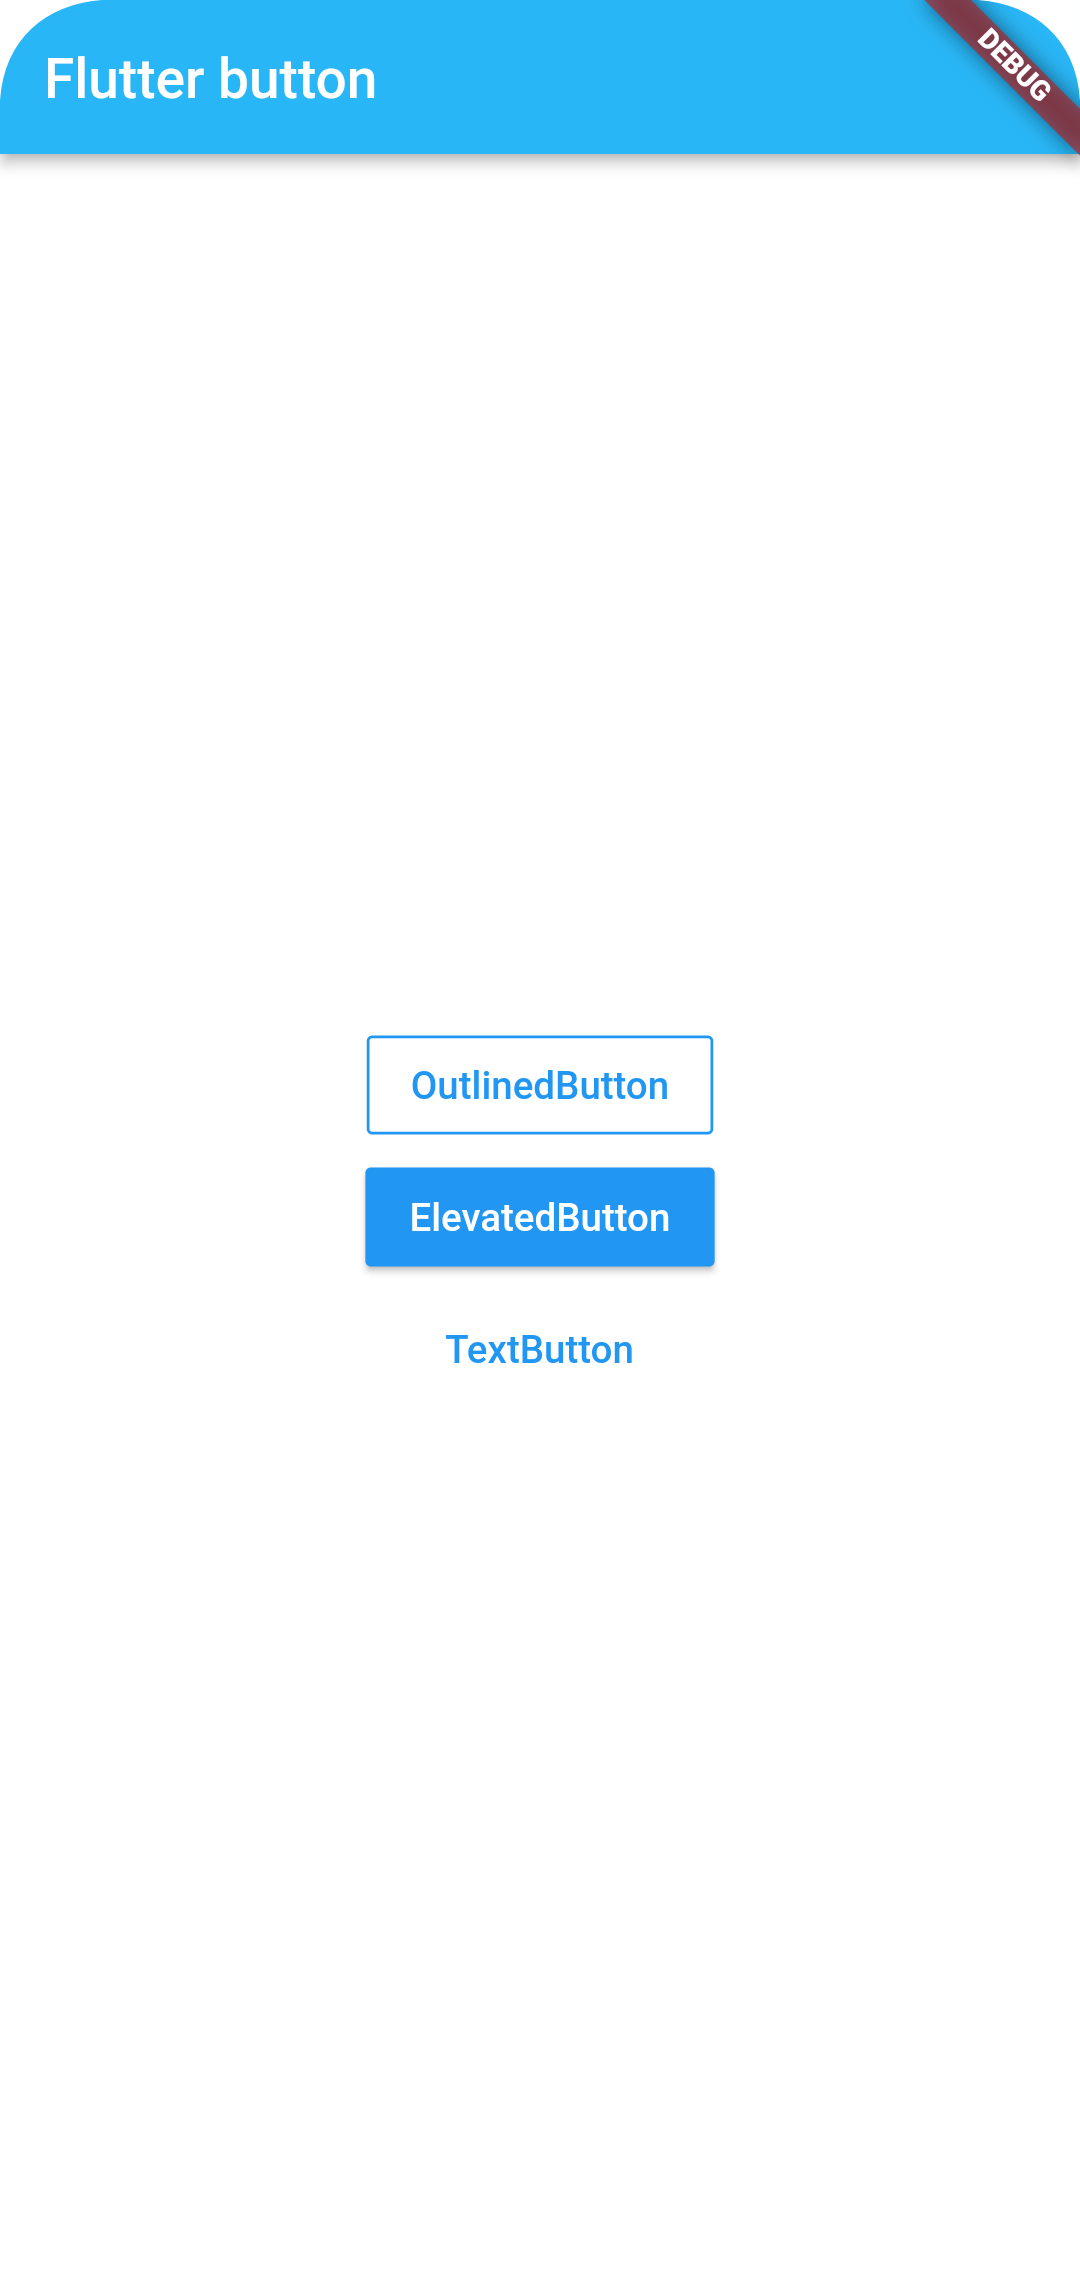
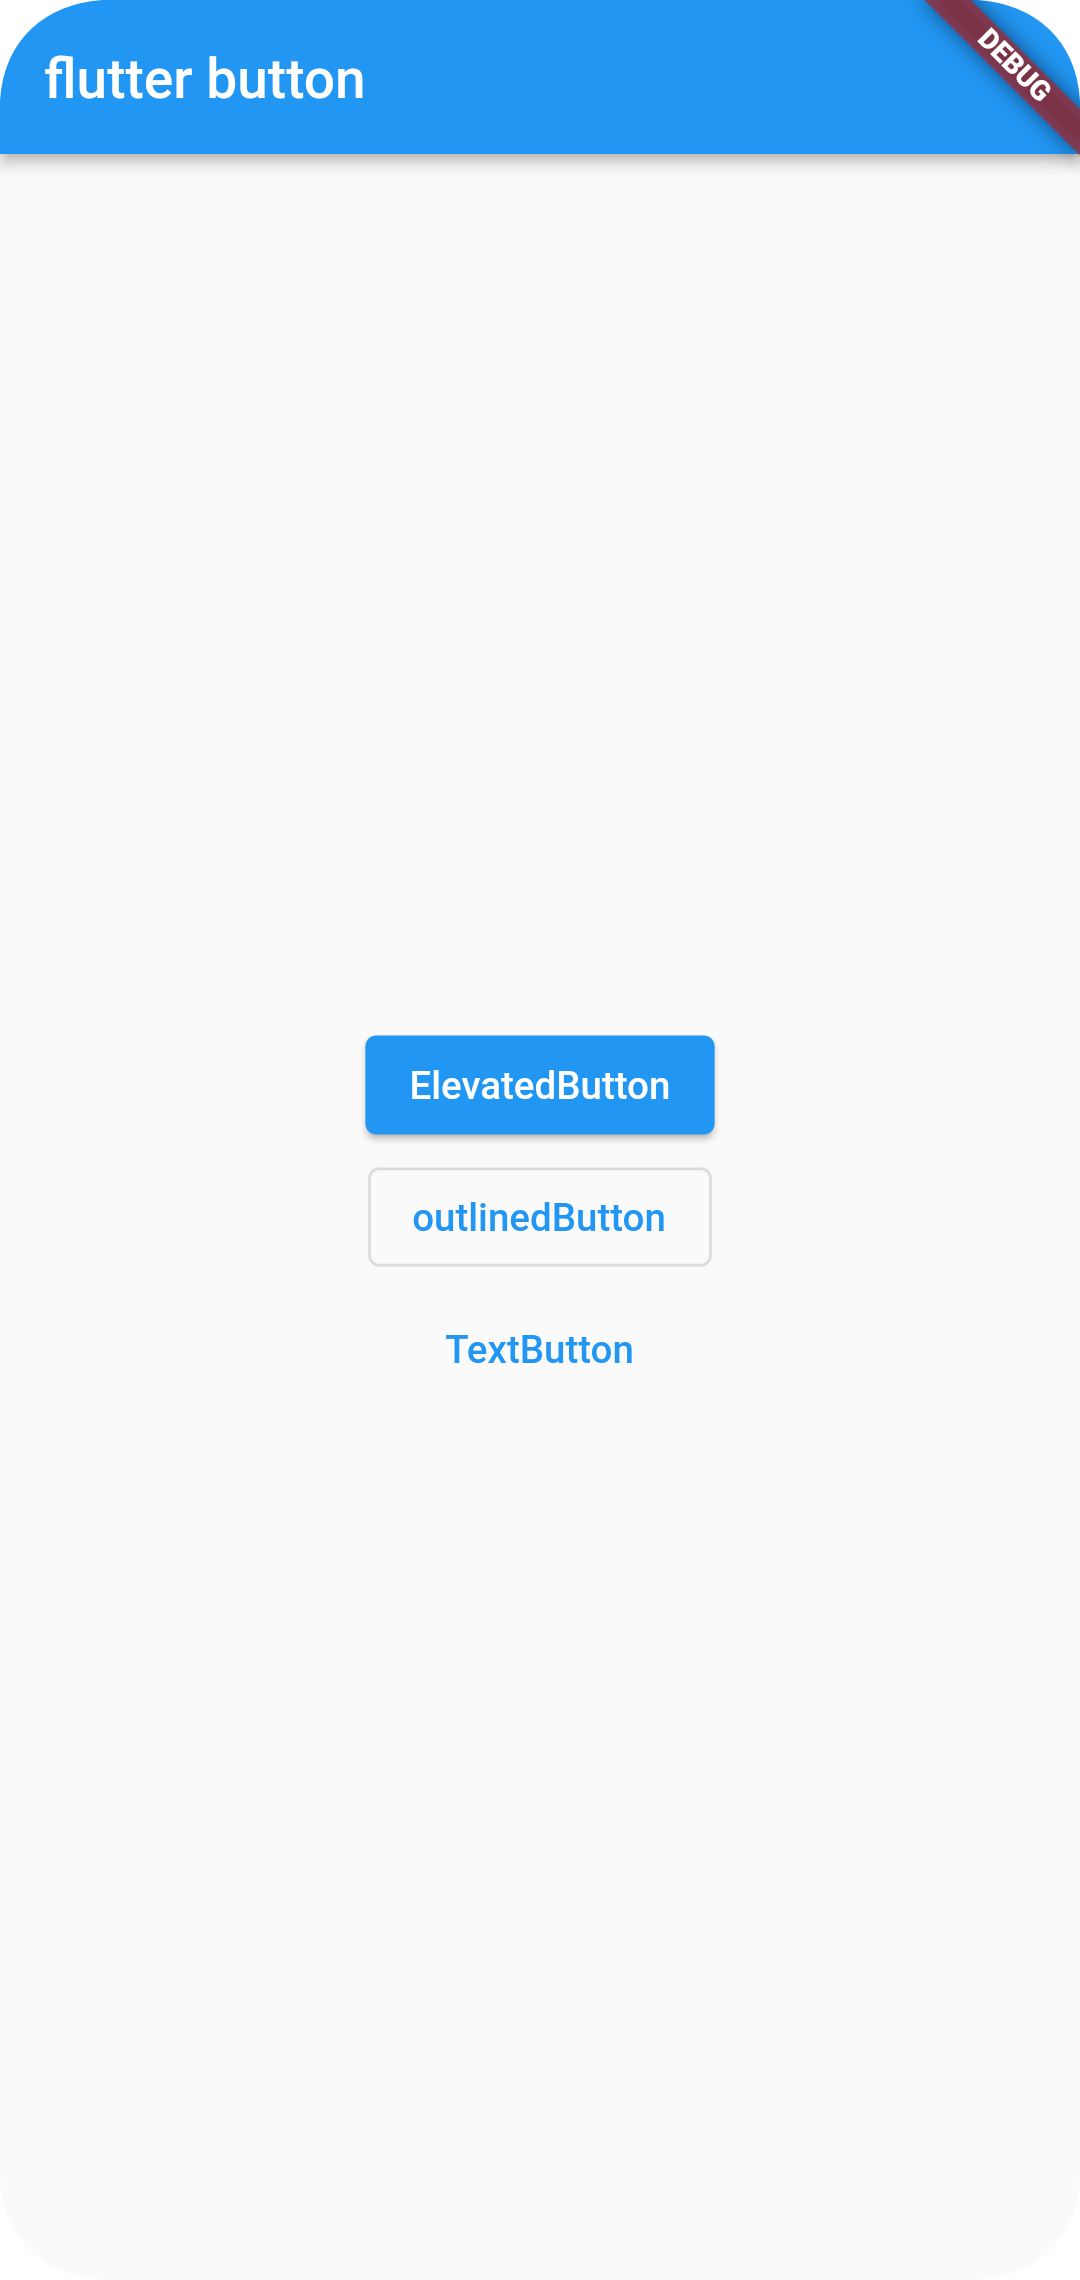
rewrite button

Changed region(s): [[0.0, 0.0, 1.0, 0.0934], [0.3361, 0.436, 0.6722, 0.5605]]

diff --git a/lib/main.dart b/lib/main.dart
@@ -6,7 +6,6 @@ void main(){
 }
 
 class MyApp extends StatelessWidget {
-  const MyApp({Key? key}) : super(key: key);
   @override
   Widget build(BuildContext context){
     return MaterialApp(
@@ -24,41 +23,83 @@ class MyApp extends StatelessWidget {
 }
 
 class Body extends StatelessWidget{
-  const Body({Key? key}) : super(key: key);
+
+  final elevatedButtonStyle = ElevatedButton.styleFrom(
+    textStyle: const TextStyle(fontSize: 20),
+  );
+  final outlinedButtonStyle = OutlinedButton.styleFrom(
+    textStyle: const TextStyle(fontSize: 20),
+  );
+  final textButtonStyle = TextButton.styleFrom(
+    textStyle: const TextStyle(fontSize: 20),
+  );
+
+
+  @override
+  Widget build(BuildContext context){
+    return Center(
+      child: Column(
+        mainAxisAlignment: MainAxisAlignment.center,
+        children: <Widget>[
+          Container(
+            child: _elevatedButton(context),
+          ),
+          Container(
+            child: _outlinedButton(context),
+          ),
+          Container(
+            child: _textButton(context),
+          )
+        ],
+      ),
+    );
+  }
+
+  ElevatedButton _elevatedButton(BuildContext context){
+    return ElevatedButton(
+        child: Text('ElevatedButton'),
+        onPressed: (){
+         showSnackbar(context);
+        }
+    );
+  }
+  OutlinedButton _outlinedButton(BuildContext context){
+    return OutlinedButton(
+        child: Text('outlinedButton'),
+        onPressed: (){
+          showSnackbar(context);
+        }
+    );
+  }
+  TextButton _textButton(BuildContext context){
+    return TextButton(
+        child: Text('TextButton'),
+        onPressed: (){
+          showSnackbar(context);
+        }
+    );
+  }
 
   void showSnackbar(BuildContext context){
     final snackBar = SnackBar(
       content: Text('Hi, I am SnackBar'),
       duration: Duration(seconds: 3),
-      backgroundColor: Colors.blue,
-      shape: RoundedRectangleBorder(borderRadius: BorderRadius.circular(20)),
+      backgroundColor: Colors.blueGrey,
+      shape: RoundedRectangleBorder(borderRadius: BorderRadius.circular(10)),
       action: SnackBarAction(
         label: "Toast訊息",
         textColor: Colors.white,
         onPressed: ()=> Fluttertoast.showToast(
-          msg: '你按下SnackBar',
-          toastLength: Toast.LENGTH_LONG,
-          gravity: ToastGravity.CENTER,
-          backgroundColor: Colors.blue,
-          textColor: Colors.white,
-          fontSize: 20
+            msg: '你按下SnackBar',
+            toastLength: Toast.LENGTH_LONG,
+            gravity: ToastGravity.CENTER,
+            backgroundColor: Colors.blueGrey,
+            textColor: Colors.white,
+            fontSize: 20
         ),
       ),
     );
     ScaffoldMessenger.of(context).showSnackBar(snackBar);
   }
 
-  @override
-  Widget build(BuildContext context){
-    return Center(
-      child: MaterialButton(
-        child: Text('Show SnackBar'),
-        color: Colors.blue,
-        textColor: Colors.white,
-        onPressed: (){
-          showSnackbar(context);
-        },
-      ),
-    );
-  }
 }
